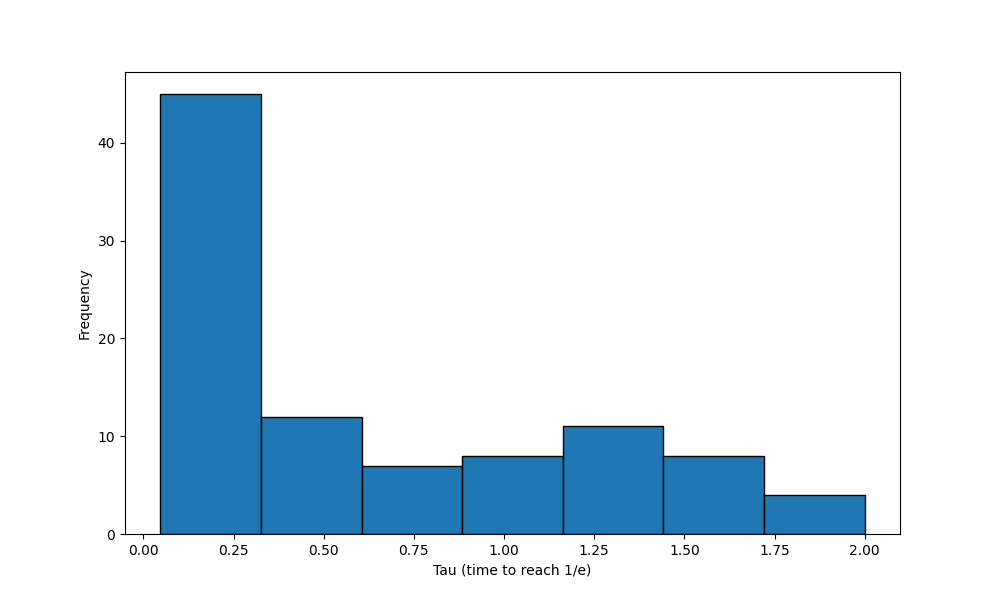
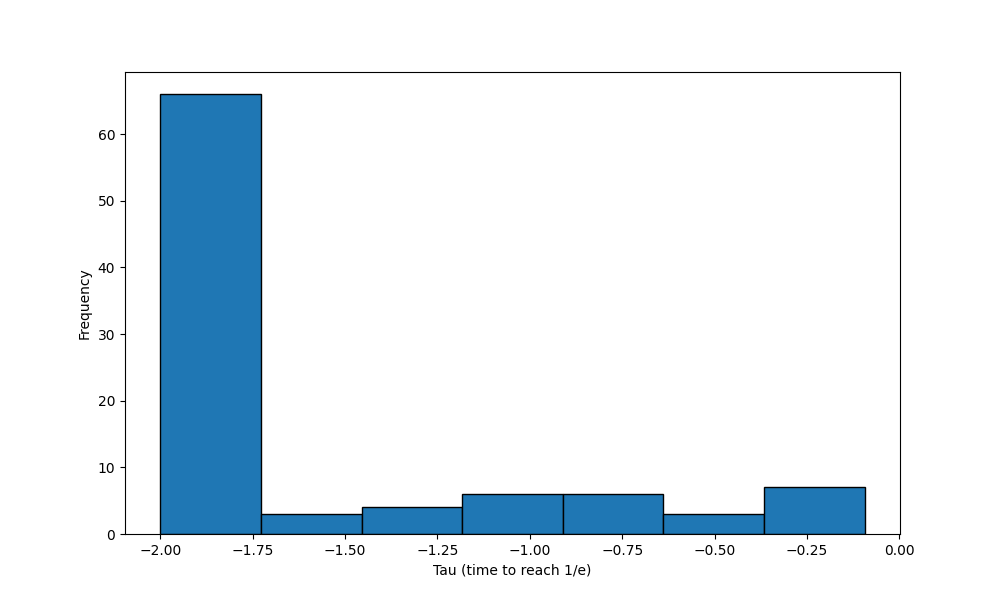
dka

diff --git a/STATIC/temperatura_cutoff.py b/STATIC/temperatura_cutoff.py
@@ -19,6 +19,7 @@ class BaseCorrelationAnalysis:
         self.name=stringa
         self.Q=Q
 
+
 class TimeCorrelation(BaseCorrelationAnalysis):
 
     def time_correlation(self, i, j, t):
@@ -110,6 +111,36 @@ class TimeCorrelation(BaseCorrelationAnalysis):
             os.makedirs(f'images/{self.name}/2_temperature_cutoff/')
         plt.savefig(f'images/{self.name}/2_temperature_cutoff/Time Correlation C({i},{j}).png')
 
+    def compute_residual_transfer_entropy_matrix_accettore(self, t, i, time_idx):
+        n = self.u.shape[0]
+        t_subset=t
+        transfer_entropy_matrix =  np.zeros((n, n, len(t_subset)))
+        for j in range(n):
+            if j==i:
+                transfer_entropy_matrix[i, j, :]=0
+            else:
+                transfer_entropy_matrix[i,j,:] = self.transfer_entropy(i, j, t_subset)
+        return transfer_entropy_matrix[i,:,:]
+    
+    def transfer_entropy(self, i, j, t):
+        C_ii_0 = self.time_correlation(i, i,t=0)
+        C_jj_0 = self.time_correlation(j, j,t=0)
+        C_ii_t = self.time_correlation(i, i, t)
+
+        C_ij_0 = self.time_correlation(i, j,t=0)
+        C_ij_t = self.time_correlation(i, j, t)
+
+        alpha_ij_t = (C_ii_0 * C_ij_t - C_ij_0 * C_ii_t) ** 2
+        beta_ij_t = (C_ii_0 * C_jj_0-(C_ij_0**2)) * (C_ii_0**2- C_ii_t ** 2)
+
+
+        ratio = np.clip(alpha_ij_t / beta_ij_t, 0, 1 - 1e-10)
+        return -0.5 * np.log(1 - ratio)
+    def plot_residual_transfer_entropy_vs_j_accettore(self, i, t, time_idx):
+        transfer_entropy_matrix = self.compute_residual_transfer_entropy_matrix_accettore(t, i, time_idx)
+        self._plot_with_secondary_structure(transfer_entropy_matrix, f'Transfer Entropy with i={i}', f'Transfer Entropy TE_ij for i={i} as a function of j at time index {time_idx}')
+
+
 
 def plot_residual_correlation_vs_j(df, i, t,s, time_idx,nome,Q,lambdaa,U):
     correlation_i=np.zeros((len(lambdaa),len(t)))
@@ -128,9 +159,25 @@ def plot_residual_correlation_vs_j(df, i, t,s, time_idx,nome,Q,lambdaa,U):
                     sum_result += term
             correlation_i[j,a] = sum_result
         a+=1
-   
-        
+            
     _plot_with_secondary_structure(df,correlation_i, f'Correlation with i={i}',nome, f'Residual Correlation with 2 temperature C_ij for i={i} as a function of j at time index {time_idx}')
+
+
+
+def plot_beta_factors(df, nome,Q,lambdaa,U):
+    correlation =np.zeros((len(lambdaa),len(lambdaa)))
+    for i in range(0,len(lambdaa)):
+        for j in range(0,len(lambdaa)): 
+            sum_result = 0.0
+            for k in range(1,len(lambdaa)):
+                for p in range(1,len(lambdaa)):
+                    term = (U[i, k] * Q[k, p] * U[j, p]) / (lambdaa[k] + lambdaa[p])
+                    sum_result += term
+            correlation[i][j] = sum_result
+
+    
+    diagonale = np.diagonal(correlation)
+    _plot_with_secondary_structure(df,diagonale , 'Beta factors Cutoff' ,nome, 'Beta factors Cutoff')
 
 
 
@@ -186,20 +233,8 @@ def _plot_with_secondary_structure(sec_struct_data, matrix, ylabel, name, title)
 def plot_matrix( matrix, secondary_structure, nome, title="Matrix"):
     binary_matrix=matrix
     fig, ax = plt.subplots(figsize=(10, 10))
-    
-    # Create a binary matrix: 1 where connections exist, 0 otherwise
-    
-    
-    # Get the indices of non-zero elements
-    
-    
-    # Plot the dots
     cax = ax.imshow(matrix, cmap='viridis')
-
-    # Aggiunta della barra del colore (opzionale)
     fig.colorbar(cax)
-
-    # Add rectangles
     rectangle1 = patches.Rectangle((19, 71), 5, 9, linewidth=2, edgecolor='r', facecolor='none')
     rectangle2 = patches.Rectangle((71, 19), 9, 5, linewidth=2, edgecolor='r', facecolor='none')
     ax.add_patch(rectangle1)
@@ -270,13 +305,15 @@ visualizer = Visualize(df)
 
 raggio=visualizer.calculate_and_print_average_distance()
 #visualizer.plot_connections_vs_radius()
-G = visualizer.create_and_print_graph(truncated=True, radius=8.0, plot=False, peso=1)  # Adjust radius as needed
+G = visualizer.create_and_print_graph(truncated=True, radius=8.0, plot=False, peso=20)  # Adjust radius as needed
 analyzer = GraphMatrixAnalyzer(G)
 kirchhoff_matrix = analyzer.get_kirchhoff_matrix()
 contatti_diagonale = kirchhoff_matrix.diagonal()
+
+
 contatti_somma_righe = kirchhoff_matrix.sum(axis=1)
 contatti = contatti_diagonale/2
-temperatura = np.where(contatti >= 5, 0.5, 1.0)
+temperatura = np.where(contatti >= 5, 1, 1)
 residui= np.arange(1, len(temperatura)+1)
 plt.figure(figsize=(12, 6))
 plt.plot(residui, temperatura, marker='o')
@@ -297,12 +334,20 @@ lambdaa, U = np.linalg.eig(kirchhoff_matrix)
 Q = U @ np.outer(B, B) @ U.T
 t = np.linspace(0., 2, 300)  # Time points
 time_correlation = TimeCorrelation(u = U, lambdas=lambdaa, mu=0, sec_struct_data=df,stringa=stringa,Q=Q)
-autocorrelations = time_correlation.time_correlation(0, 1, t)  # Example indices
-time_correlation.plot_time_correlation(0, 1, t)
+autocorrelations = time_correlation.time_correlation(20, 75, t)  # Example indices
+time_correlation.plot_time_correlation(20, 75, t)
+
+t = np.linspace(-2, 0, 300)  # Time points
+time_correlation = TimeCorrelation(u = U, lambdas=lambdaa, mu=0, sec_struct_data=df,stringa=stringa,Q=Q)
+autocorrelations = time_correlation.time_correlation(20, 75, t)  # Example indices
+time_correlation.plot_time_correlation(20, 75, t)
 normalized_autocorrelations = autocorrelations / autocorrelations[0]  # Normalize example
 
 
 
+
+
+plot_beta_factors(df, stringa,Q,lambdaa,U)
 normalized_autocorrelations = np.zeros((94, len(t)))
 for i in range(94):
     C_ii_t = time_correlation.time_correlation(i, i, t)
@@ -318,3 +363,4 @@ s=[0,0,0]
 time_idx = 0
 for i in range(len(lista)):
     plot_residual_correlation_vs_j(df=df,i=lista[i], t=t,s=s, time_idx=time_idx,nome=stringa,Q=Q,lambdaa=lambdaa,U=U)
+    time_correlation.plot_residual_transfer_entropy_vs_j_accettore(lista[i],t, time_idx)

diff --git a/STATIC/causal_indicators_advances.py b/STATIC/causal_indicators_advances.py
@@ -618,6 +618,8 @@ class ResidualAnalysis(TimeCorrelation, TransferEntropy, TimeResponse, Correlati
                 transfer_entropy_matrix[i, j, :] = self.transfer_entropy(j, i, t_subset)
         return transfer_entropy_matrix[i,:,:]
     
+
+    
     def compute_residual_transfer_entropy_matrix_accettore(self, t, i, time_idx):
         n = self.u.shape[0]
         t_subset=t
